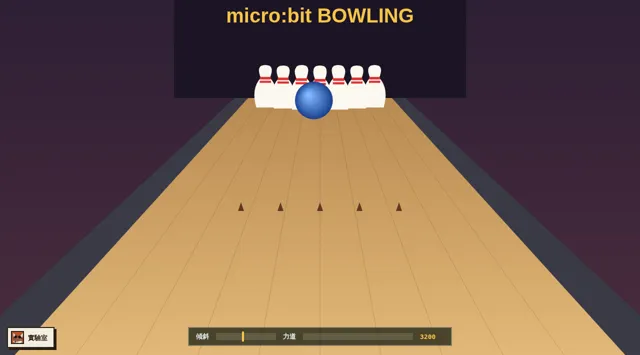
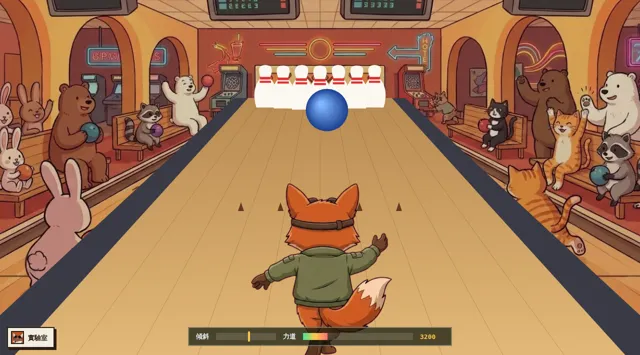
micro:bit 運動會加入插圖：保齡球館、網球場、棒球場與動物觀眾，酷丁狐背對畫面出場
- 保齡球：酷丁狐拿球瞄準、出手換姿勢，兩旁是打保齡球的動物
- 網球：兔子對手，球和球員照背景球場的透視擺放
- 棒球：熊投手（投球時換姿勢）、酷丁狐打擊手
- 插圖沒載入時自動退回原本的畫法；玩法、計分和規則積木不變

Claude-Session: https://claude.ai/code/session_01A94N84mP9yCmXc23n7QLzu

diff --git a/sports.js b/sports.js
@@ -38,6 +38,13 @@ function swing(p, raw) {
 function say(t, good) { S.msg = t; S.msgT = 1.6; if (S.lab) return; if (good === true) MB.send("good"); if (good === false) MB.send("miss"); }
 function hud(l1, v1, l2, v2) { $("l1").textContent = l1; $("v1").textContent = v1; $("l2").textContent = l2; $("v2").textContent = v2; }
 function burst(x, y, col, n = 16, sp = 200) { for (let i = 0; i < n; i++) { const a = rnd(0, 6.28), v = rnd(30, sp); S.parts.push({ x, y, vx: Math.cos(a) * v, vy: Math.sin(a) * v, life: rnd(0.4, 0.9), col }); } }
+/* ---------- 插圖（背景與角色） ---------- */
+const SPR = {};
+for (const k of ["bowl", "tennis", "base", "fox-bowl-a", "fox-bowl-b", "fox-ten-a", "fox-ten-b", "fox-bat-a", "fox-bat-b", "bear-a", "bear-b", "rabbit"]) { SPR[k] = new Image(); SPR[k].src = `assets/sp-${k}.webp`; }
+const sok = (k) => SPR[k] && SPR[k].complete && SPR[k].naturalWidth;
+function cover(k, ay = 0.5) { const im = SPR[k], iw = im.naturalWidth, ih = im.naturalHeight, s = Math.max(W / iw, H / ih), r = { s, x: (W - iw * s) / 2, y: (H - ih * s) * ay }; g.drawImage(im, r.x, r.y, iw * s, ih * s); return r; }
+function sprite(k, x, y, h, rot = 0, flip = false) { if (!sok(k)) return; const im = SPR[k], kk = h / 380, w = im.naturalWidth * kk, hh = im.naturalHeight * kk;
+  g.save(); g.translate(x, y); if (rot) g.rotate(rot); if (flip) g.scale(-1, 1); g.drawImage(im, -w / 2, -hh, w, hh); g.restore(); }
 function finish(title, text, score) { if (S.lab) return; S.running = false; $("endTitle").textContent = title; $("endText").textContent = text; $("endScore").textContent = score; setTimeout(() => { $("endOv").hidden = false; }, 900); }
 const sfx = {
   whoosh(p) { SFX.noise(0.25, 0.15 + p * 0.2, 1200 + p * 2000, 0, "bandpass"); },
@@ -100,11 +107,13 @@ const BOWL = (() => {
   }
   function proj(x, z) { const hz = H * 0.16, near = H * 1.0, k = 6; const s = k / (z + k); return { x: W / 2 + x * W * 0.9 * s, y: hz + (near - hz) * s, s }; }
   function draw() {
-    const sky = g.createLinearGradient(0, 0, 0, H); sky.addColorStop(0, "#2a1d33"); sky.addColorStop(1, "#4a2c3d"); g.fillStyle = sky; g.fillRect(0, 0, W, H);
+    if (sok("bowl")) { cover("bowl", 0.4); g.fillStyle = "rgba(20,10,30,.18)"; g.fillRect(0, 0, W, H); }
+    else { const sky = g.createLinearGradient(0, 0, 0, H); sky.addColorStop(0, "#2a1d33"); sky.addColorStop(1, "#4a2c3d"); g.fillStyle = sky; g.fillRect(0, 0, W, H); }
     // 後牆
     const wl = proj(-LW - 0.4, L + 1.5), wr = proj(LW + 0.4, L + 1.5);
+    if (!sok("bowl")) {
     g.fillStyle = "#1c1424"; g.fillRect(wl.x - 40, wl.y - (wr.x - wl.x) * 0.5, wr.x - wl.x + 80, (wr.x - wl.x) * 0.5);
-    g.fillStyle = "#f5c547"; g.font = `900 ${Math.round((wr.x - wl.x) * 0.08)}px Noto Sans TC, sans-serif`; g.textAlign = "center"; g.fillText("micro:bit BOWLING", W / 2, wl.y - (wr.x - wl.x) * 0.3);
+    g.fillStyle = "#f5c547"; g.font = `900 ${Math.round((wr.x - wl.x) * 0.08)}px Noto Sans TC, sans-serif`; g.textAlign = "center"; g.fillText("micro:bit BOWLING", W / 2, wl.y - (wr.x - wl.x) * 0.3); }
     // 球道
     const a = proj(-LW - 0.1, 0), b = proj(LW + 0.1, 0), c = proj(LW + 0.1, L + 1.5), d = proj(-LW - 0.1, L + 1.5);
     g.fillStyle = "#3a3a46"; g.beginPath(); g.moveTo(a.x, a.y); g.lineTo(b.x, b.y); g.lineTo(c.x, c.y); g.lineTo(d.x, d.y); g.fill();
@@ -119,9 +128,13 @@ const BOWL = (() => {
     // 瓶（由遠到近畫）
     const items = st.pins.map((p) => ({ z: p.z, f: () => drawPin(p) }));
     const bb = st.ball || { x: S.tilt * (LW - BR), z: 0.5 };
-    items.push({ z: bb.z, f: () => { const p = proj(bb.x, bb.z), r = BR * W * 0.9 * p.s; const gr = g.createRadialGradient(p.x - r * 0.3, p.y - r * 1.3, r * 0.1, p.x, p.y - r, r);
+    if (st.ball || !sok("fox-bowl-a")) items.push({ z: bb.z, f: () => { const p = proj(bb.x, bb.z), r = BR * W * 0.9 * p.s; const gr = g.createRadialGradient(p.x - r * 0.3, p.y - r * 1.3, r * 0.1, p.x, p.y - r, r);
       gr.addColorStop(0, "#7fb8ff"); gr.addColorStop(1, "#1b3f8f"); g.fillStyle = gr; g.beginPath(); g.arc(p.x, p.y - r, r, 0, 7); g.fill(); } });
     items.sort((u, v) => v.z - u.z).forEach((it) => it.f());
+    // 酷丁狐（背對畫面）：瞄準時拿著球，丟出去後換成出手的姿勢
+    const aimX = st.ball ? clamp(st.ball.x, -LW, LW) : S.tilt * (LW - BR), fp = proj(aimX, 0);
+    const throwing = !!st.ball;
+    sprite(throwing ? "fox-bowl-b" : "fox-bowl-a", fp.x - W * 0.03, H + H * 0.02, H * 0.46, throwing ? 0 : S.tilt * 0.05);
   }
   function drawPin(p) {
     const q = proj(p.x, p.z), hgt = 0.28 * W * 0.9 * q.s, w = PR * W * 0.9 * q.s;
@@ -176,8 +189,15 @@ const TENNIS = (() => {
       }
     }
   }
-  function cp(x, y) { const top = H * 0.16, bot = H * 0.92, t = y; const wTop = W * 0.32, wBot = W * 0.78; const w = lerp(wTop, wBot, t); return { x: W / 2 + x * w, y: lerp(top, bot, t), s: lerp(0.55, 1, t) }; }
+  let BG = null;
+  function cp(x, y) {
+    if (BG) { // 照背景圖上球場的透視：遠端底線 y=345、寬 295；近端底線 y=595、寬 745（原圖座標）
+      const k = 0.316, t = clamp(y, -0.1, 1.15), ty = k * t / (1 + (k - 1) * t), Y = 345 + 250 * ty, hw = lerp(147.5, 372.5, ty);
+      return { x: BG.x + (687.5 + x * 2 * hw) * BG.s, y: BG.y + Y * BG.s, s: (hw / 372.5) * BG.s * 1.25 }; }
+    const top = H * 0.16, bot = H * 0.92, t = y; const wTop = W * 0.32, wBot = W * 0.78; const w = lerp(wTop, wBot, t); return { x: W / 2 + x * w, y: lerp(top, bot, t), s: lerp(0.55, 1, t) }; }
   function draw() {
+    BG = sok("tennis") ? cover("tennis", 0.3) : null;
+    if (BG) { drawArt(); return; }
     g.fillStyle = "#2d6a3a"; g.fillRect(0, 0, W, H);
     const c1 = cp(-0.5, 0), c2 = cp(0.5, 0), c3 = cp(0.5, 1), c4 = cp(-0.5, 1);
     g.fillStyle = "#3d7fc4"; g.beginPath(); g.moveTo(c1.x, c1.y); g.lineTo(c2.x, c2.y); g.lineTo(c3.x, c3.y); g.lineTo(c4.x, c4.y); g.fill();
@@ -193,6 +213,17 @@ const TENNIS = (() => {
       g.fillStyle = "#e8ff3a"; g.beginPath(); g.arc(p.x, p.y - b.h * 120 * p.s, r, 0, 7); g.fill();
       if (S.aim && b.from === "cpu" && b.y > 0.62) { const hz = cp(0, 0.9); g.strokeStyle = "rgba(255,255,255,.35)"; g.setLineDash([6, 6]); g.beginPath(); g.moveTo(cp(-0.5, 0.9).x, hz.y); g.lineTo(cp(0.5, 0.9).x, hz.y); g.stroke(); g.setLineDash([]); } }
   }
+  function drawArt() {
+    const b = st.ball, rp = cp(st.cpuX, 0.0), mp = cp(st.myX, 1.0);
+    if (b && b.from === "me") { const p = cp(b.x, b.y), r = 9 * p.s; ball(b, p, r); }
+    sprite("rabbit", rp.x, rp.y + 4 * BG.s, 120 * BG.s, 0, st.cpuX > 0.1);
+    if (b && b.from === "cpu") { const p = cp(b.x, b.y), r = 9 * p.s; ball(b, p, r);
+      if (S.aim && b.y > 0.62) { const a = cp(-0.5, 0.9), c = cp(0.5, 0.9); g.strokeStyle = "rgba(255,255,255,.5)"; g.lineWidth = 3; g.setLineDash([8, 8]); g.beginPath(); g.moveTo(a.x, a.y); g.lineTo(c.x, c.y); g.stroke(); g.setLineDash([]); } }
+    const sw = S.t - st.swingT < 0.3;
+    sprite(sw ? "fox-ten-b" : "fox-ten-a", mp.x - W * 0.02, H + H * 0.03, H * 0.42, sw ? -0.05 : S.tilt * 0.06);
+  }
+  function ball(b, p, r) { g.fillStyle = "rgba(0,0,0,.3)"; g.beginPath(); g.ellipse(p.x, p.y, r, r * 0.4, 0, 0, 7); g.fill();
+    g.fillStyle = "#e8ff3a"; g.strokeStyle = "#7a8a10"; g.lineWidth = 1.5; g.beginPath(); g.arc(p.x, p.y - b.h * 120 * p.s, r, 0, 7); g.fill(); g.stroke(); }
   return { name: "網球", init, step, draw, swing };
 })();
 
@@ -224,7 +255,22 @@ const BASE = (() => {
     else if (st.phase === "pitch") { st.ball.t += dt; if (st.ball.t > st.ball.dur + 0.25) { say("好球！沒打到", false); sfx.boo(); st.ball = null; labFire("miss"); next(); } }
     else if (st.phase === "fly") { st.fly.t += dt; if (st.fly.t > 2) { st.fly = null; next(); } }
   }
+  function drawArt() {
+    const R = cover("base", 0.55), mx = R.x + 687 * R.s, my = R.y + 585 * R.s, px = R.x + 687 * R.s, py = Math.min(H - 20, R.y + 742 * R.s);
+    // 投手熊：投球那一瞬間換成出手的姿勢
+    const throwing = st.phase === "pitch" && st.ball && st.ball.t < 0.35;
+    sprite(throwing ? "bear-b" : "bear-a", mx, my + 6 * R.s, 150 * R.s);
+    if (st.ball) { const k = clamp(st.ball.t / st.ball.dur, 0, 1.3), y = lerp(my - 90 * R.s, py - 40 * R.s, k), x = mx + st.ball.curve * k * k * 260 * R.s, r = lerp(4, 18, Math.min(1, k)) * R.s;
+      g.fillStyle = "#fff"; g.beginPath(); g.arc(x, y, r, 0, 7); g.fill(); g.strokeStyle = "#d33"; g.lineWidth = 1.5; g.beginPath(); g.arc(x - r * 0.4, y, r * 0.7, -1, 1); g.stroke(); }
+    // 打擊手酷丁狐（背對畫面）
+    const sw = S.t - st.swingT < 0.35;
+    sprite(sw ? "fox-bat-b" : "fox-bat-a", px - W * 0.13, H + H * 0.03, H * 0.5, sw ? 0 : S.tilt * 0.05);
+    if (st.fly) { const k = st.fly.t / 2, d = st.fly.dist, x = W / 2 + st.fly.ang * k * W * 0.45 * (st.fly.foul ? 1.6 : 1), y = H * 0.85 - Math.sin(k * Math.PI) * H * 0.55 * (d / 130) - k * H * 0.3;
+      g.fillStyle = "#fff"; g.strokeStyle = "#333"; g.lineWidth = 1.5; g.beginPath(); g.arc(x, y, lerp(14, 4, k), 0, 7); g.fill(); g.stroke();
+      g.fillStyle = "#ffc94a"; g.strokeStyle = "#2b1d14"; g.lineWidth = 6; g.font = "900 40px Noto Sans TC, sans-serif"; g.textAlign = "center"; const tx = st.fly.foul ? "界外" : `${Math.round(d * Math.min(1, k * 1.5))} m`; g.strokeText(tx, W / 2, H * 0.36); g.fillText(tx, W / 2, H * 0.36); }
+  }
   function draw() {
+    if (sok("base")) { drawArt(); return; }
     const sky = g.createLinearGradient(0, 0, 0, H * 0.45); sky.addColorStop(0, "#5aa7e8"); sky.addColorStop(1, "#bfe3ff"); g.fillStyle = sky; g.fillRect(0, 0, W, H);
     g.fillStyle = "#2f7a3a"; g.fillRect(0, H * 0.42, W, H); g.fillStyle = "#1f5a2a"; g.fillRect(0, H * 0.4, W, H * 0.03);
     g.fillStyle = "#c79a62"; g.beginPath(); g.moveTo(W / 2, H * 0.52); g.lineTo(W * 0.9, H); g.lineTo(W * 0.1, H); g.fill();

diff --git a/index.html b/index.html
@@ -340,7 +340,7 @@
             <div class="body">
               <span class="lessons mono">第六堂</span>
               <h3>micro:bit 運動會</h3>
-              <p>拿著 micro:bit 當球拍、球棒、保齡球：左右傾斜瞄準，用力一揮決定力道。保齡球、網球、棒球三種比賽。</p>
+              <p>酷丁狐和動物朋友們的運動會！拿著 micro:bit 當球拍、球棒、保齡球：左右傾斜瞄準，用力一揮決定力道。保齡球、網球、棒球三種比賽。</p>
               <div class="chips"><span>micro:bit ⇄ 平板</span><span>x:傾斜 s:力道</span><span>good# miss#</span></div>
               <div style="display:flex;gap:10px;flex-wrap:wrap"><a class="btn mustard small" href="sports.html">進入運動會</a><a class="btn small" href="sports.html#lab">規則實驗室</a></div>
             </div>
